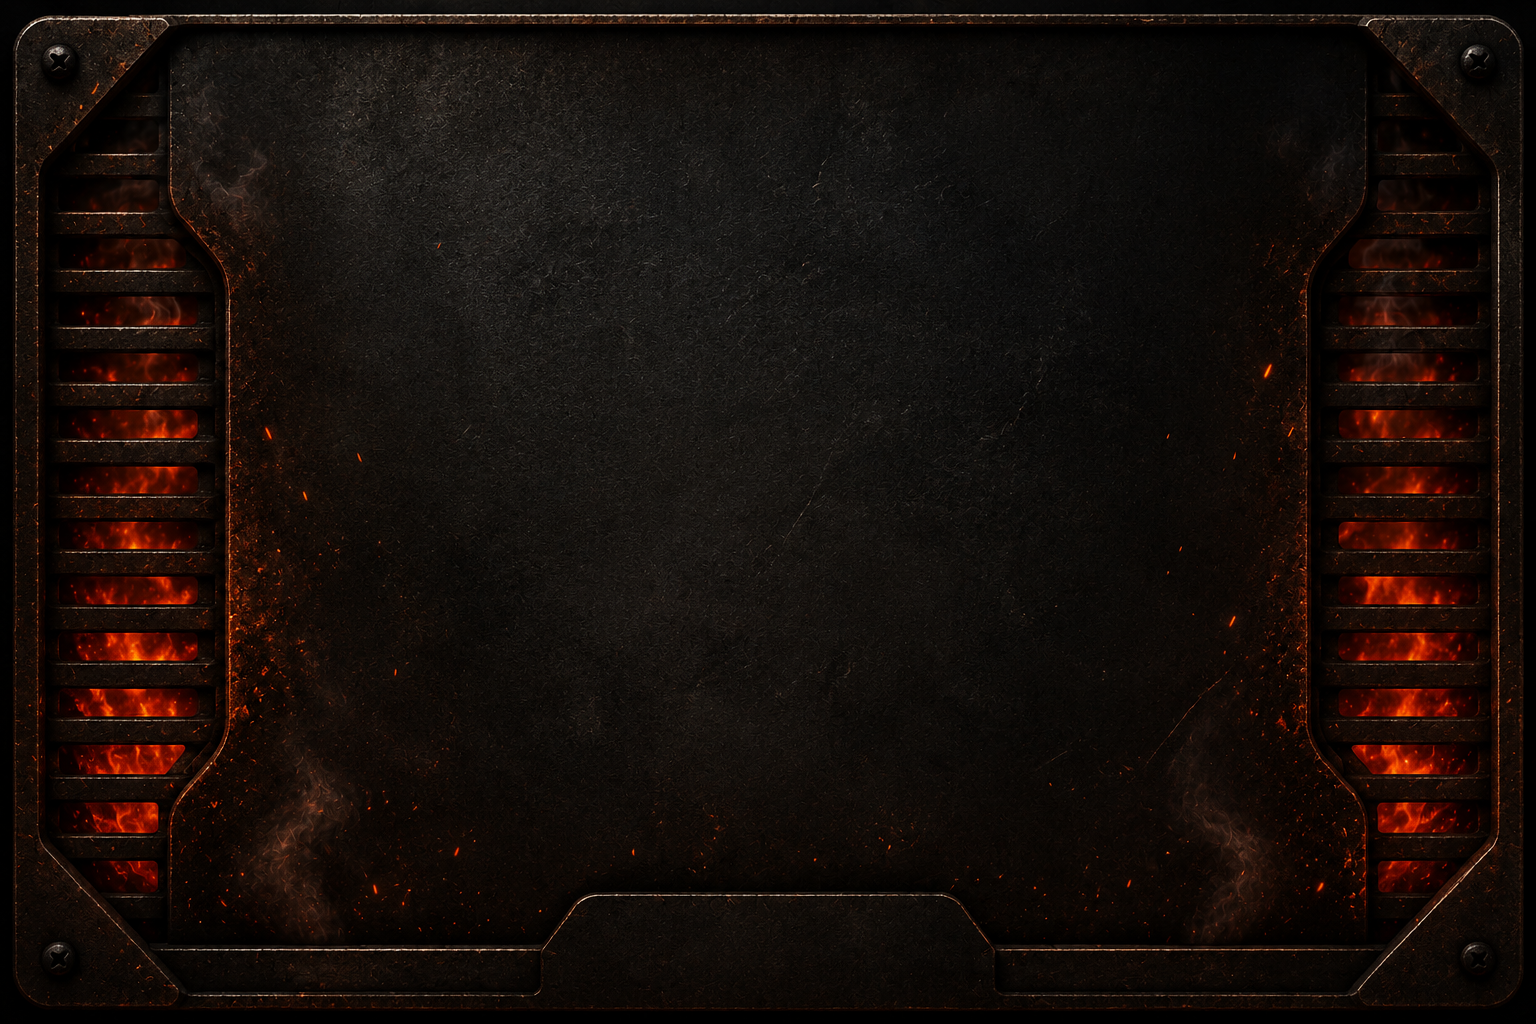
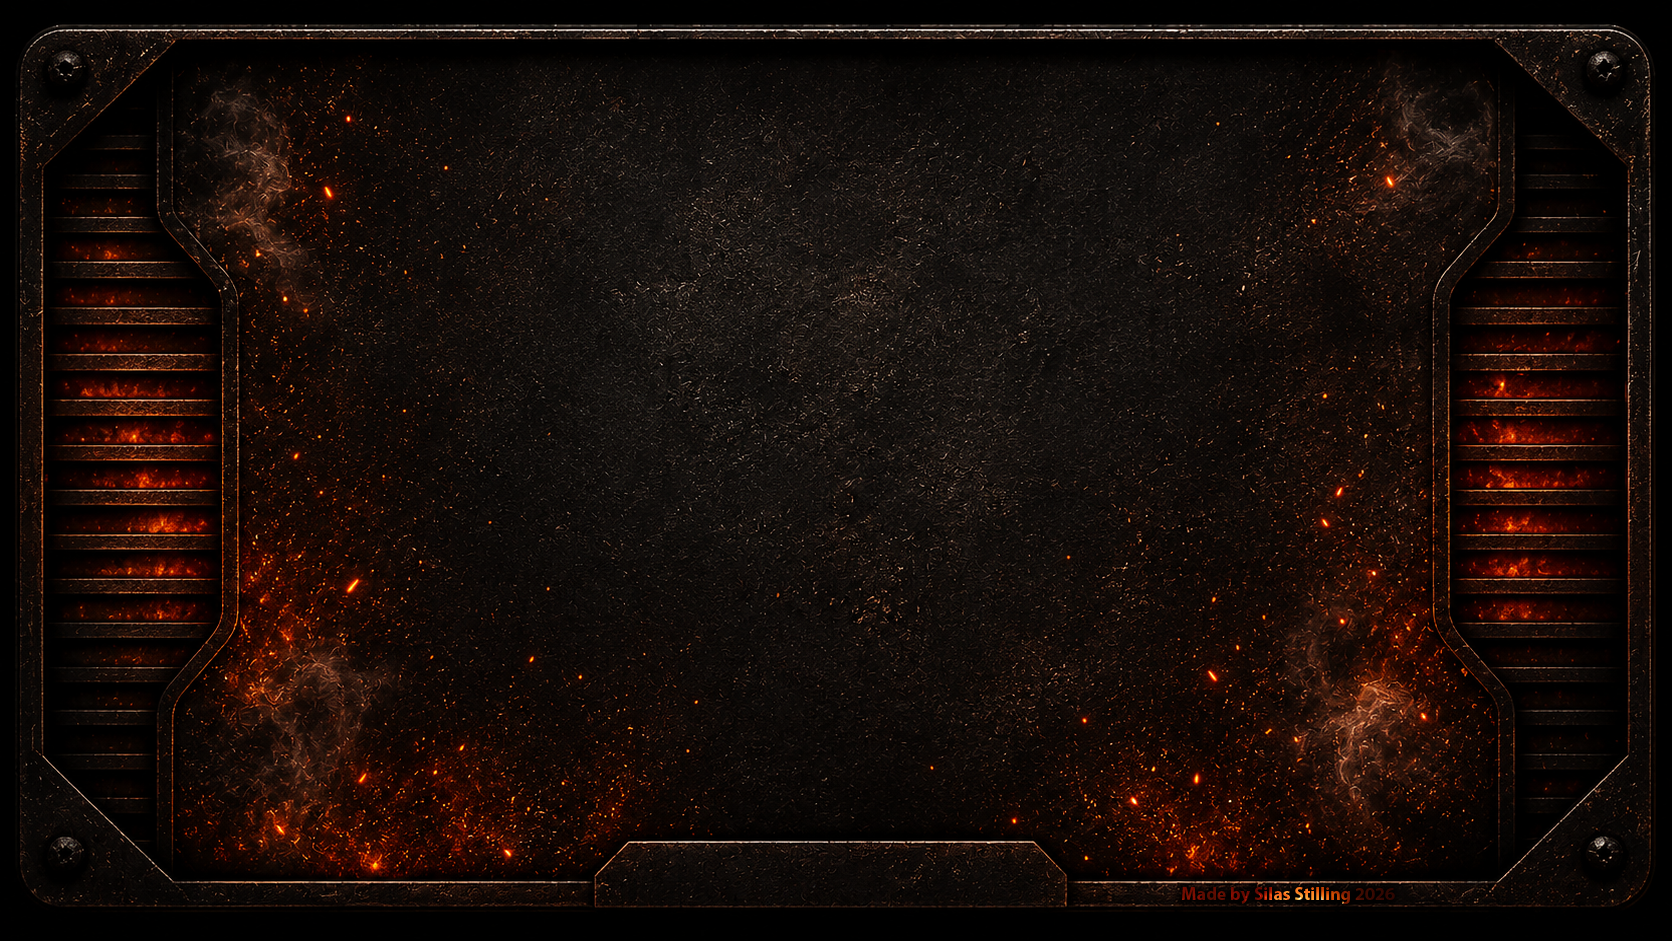
Switch to 16:9 layout and redesign Onions button
- Updated background asset to a 16:9 panel and resized the editor to 960x540.
- Reworked the layout (logo, knob row, sausage strip, bottom area) to fit the new aspect ratio and adjusted knob icon zone accordingly.
- Replaced the pill-shaped Onions toggle with a transparent control rendered on top of the background — header text, onion image and an indicator LED (red off / green on) — so the cutting-board styling can live in the background art.
- Removed the unused credit text and creditBounds member.

diff --git a/source/ui/OnionsButton.cpp b/source/ui/OnionsButton.cpp
@@ -11,34 +11,48 @@ OnionsButton::OnionsButton() : juce::Button ("ONIONS")
 
 void OnionsButton::paintButton (juce::Graphics& g, bool isHighlighted, bool isDown)
 {
-    auto bounds = getLocalBounds().toFloat().reduced (2.0f);
+    auto bounds = getLocalBounds().toFloat().reduced (3.0f);
     const bool on = getToggleState();
 
-    auto imgBox = bounds.removeFromTop (bounds.getHeight() - 22.0f);
-    auto txtBox = bounds;
+    auto inner = bounds.reduced (10.0f);
 
-    if (on)
+    auto headerBox = inner.removeFromTop (24.0f);
+    g.setColour (GlizzyLookAndFeel::onionWhite.withAlpha (isHighlighted ? 1.0f : 0.92f));
+    g.setFont (juce::Font (juce::FontOptions (20.0f).withStyle ("Bold")));
+    g.drawText ("Onions", headerBox.toNearestInt(), juce::Justification::centred, false);
+
+    auto ledBox = inner.removeFromBottom (16.0f);
     {
-        const auto centre = imgBox.getCentre();
-        const float radius = juce::jmax (imgBox.getWidth(), imgBox.getHeight()) * 0.55f;
-        juce::ColourGradient glow (GlizzyLookAndFeel::relishGreen.withAlpha (0.55f),
+        const float ledR = 4.5f;
+        const auto centre = ledBox.getCentre();
+        const auto ledColour = on ? GlizzyLookAndFeel::relishGreen
+                                  : GlizzyLookAndFeel::ketchupRed;
+
+        juce::ColourGradient glow (ledColour.withAlpha (on ? 0.7f : 0.55f),
                                    centre.x, centre.y,
-                                   GlizzyLookAndFeel::relishGreen.withAlpha (0.0f),
-                                   centre.x + radius, centre.y, true);
+                                   ledColour.withAlpha (0.0f),
+                                   centre.x + ledR * 3.5f, centre.y, true);
         g.setGradientFill (glow);
-        g.fillRect (imgBox.expanded (10.0f));
+        g.fillRect (ledBox.expanded (10.0f, 6.0f));
+
+        g.setColour (ledColour);
+        g.fillEllipse (centre.x - ledR, centre.y - ledR, ledR * 2.0f, ledR * 2.0f);
+
+        g.setColour (juce::Colours::white.withAlpha (0.5f));
+        g.fillEllipse (centre.x - ledR * 0.45f, centre.y - ledR * 0.75f,
+                       ledR * 0.7f, ledR * 0.55f);
     }
 
-    if (image.isValid())
+    if (image.isValid() && ! inner.isEmpty())
     {
-        const float baseAlpha = on ? 1.0f : 0.40f;
+        const float baseAlpha = on ? 1.0f : 0.65f;
         const float boost     = isHighlighted ? 0.10f : 0.0f;
         g.setOpacity (juce::jlimit (0.0f, 1.0f, baseAlpha + boost));
 
         const float imgRatio = (float) image.getWidth() / (float) image.getHeight();
-        const float boxRatio = imgBox.getWidth() / imgBox.getHeight();
+        const float boxRatio = inner.getWidth() / inner.getHeight();
 
-        auto target = imgBox;
+        auto target = inner;
         if (imgRatio > boxRatio)
             target = target.withSizeKeepingCentre (target.getWidth(), target.getWidth() / imgRatio);
         else
@@ -49,8 +63,4 @@ void OnionsButton::paintButton (juce::Graphics& g, bool isHighlighted, bool isDo
         g.drawImage (image, target, juce::RectanglePlacement::centred);
         g.setOpacity (1.0f);
     }
-
-    g.setColour (on ? GlizzyLookAndFeel::relishGreen.brighter (0.2f) : GlizzyLookAndFeel::onionWhite);
-    g.setFont (juce::Font (juce::FontOptions (14.0f).withStyle ("Bold")));
-    g.drawFittedText ("ONIONS", txtBox.toNearestInt(), juce::Justification::centred, 1);
 }

diff --git a/source/PluginEditor.cpp b/source/PluginEditor.cpp
@@ -37,7 +37,7 @@ GlizzyizerEditor::GlizzyizerEditor (GlizzyizerProcessor& p)
     serve.setTooltip   ("Output gain in dB. Final volume after the saturation chain.");
     onionsButton.setTooltip ("Toggles a presence boost plus high-frequency stereo widener.");
 
-    setSize (540, 560);
+    setSize (960, 540);
 }
 
 GlizzyizerEditor::~GlizzyizerEditor()
@@ -79,28 +79,21 @@ void GlizzyizerEditor::paint (juce::Graphics& g)
 
     drawAspectFit (logo,    logoBounds);
     drawAspectFit (sausage, sausageBounds);
-
-    g.setColour (GlizzyLookAndFeel::onionWhite.withAlpha (0.55f));
-    g.setFont (juce::Font (juce::FontOptions (11.0f).withStyle ("Italic")));
-    g.drawText ("made by Silas Stilling",
-                creditBounds.reduced (8),
-                juce::Justification::bottomRight, false);
 }
 
 void GlizzyizerEditor::resized()
 {
-    auto area = getLocalBounds().reduced (18);
-    logoBounds = area.removeFromTop (110);
+    auto area = getLocalBounds().reduced (24);
+    logoBounds = area.removeFromTop (90);
 
-    auto knobs = area.removeFromTop (240).reduced (40, 0);
+    auto knobs = area.removeFromTop (200).reduced (60, 0);
     const int knobW = knobs.getWidth() / 3;
-    girth  .setBounds (knobs.removeFromLeft (knobW).reduced (10, 4));
-    mustard.setBounds (knobs.removeFromLeft (knobW).reduced (10, 4));
-    serve  .setBounds (knobs.reduced (10, 4));
+    girth  .setBounds (knobs.removeFromLeft (knobW).reduced (20, 4));
+    mustard.setBounds (knobs.removeFromLeft (knobW).reduced (20, 4));
+    serve  .setBounds (knobs.reduced (20, 4));
 
-    sausageBounds = area.removeFromTop (70);
+    sausageBounds = area.removeFromTop (50);
 
     auto bottom = area;
-    onionsButton.setBounds (bottom.withSizeKeepingCentre (150, 110));
-    creditBounds = bottom;
+    onionsButton.setBounds (bottom.withSizeKeepingCentre (240, 140));
 }

diff --git a/source/ui/KnobComponent.cpp b/source/ui/KnobComponent.cpp
@@ -48,7 +48,7 @@ void KnobComponent::paint (juce::Graphics& g)
 void KnobComponent::resized()
 {
     auto area = getLocalBounds();
-    iconBounds = area.removeFromTop (80);
+    iconBounds = area.removeFromTop (60);
     caption.setBounds (area.removeFromTop (22));
     slider.setBounds  (area);
 }

diff --git a/source/PluginEditor.h b/source/PluginEditor.h
@@ -33,7 +33,6 @@ private:
     juce::Image       sausage;
     juce::Rectangle<int> logoBounds;
     juce::Rectangle<int> sausageBounds;
-    juce::Rectangle<int> creditBounds;
 
     juce::TooltipWindow tooltipWindow { this, 600 };
 
